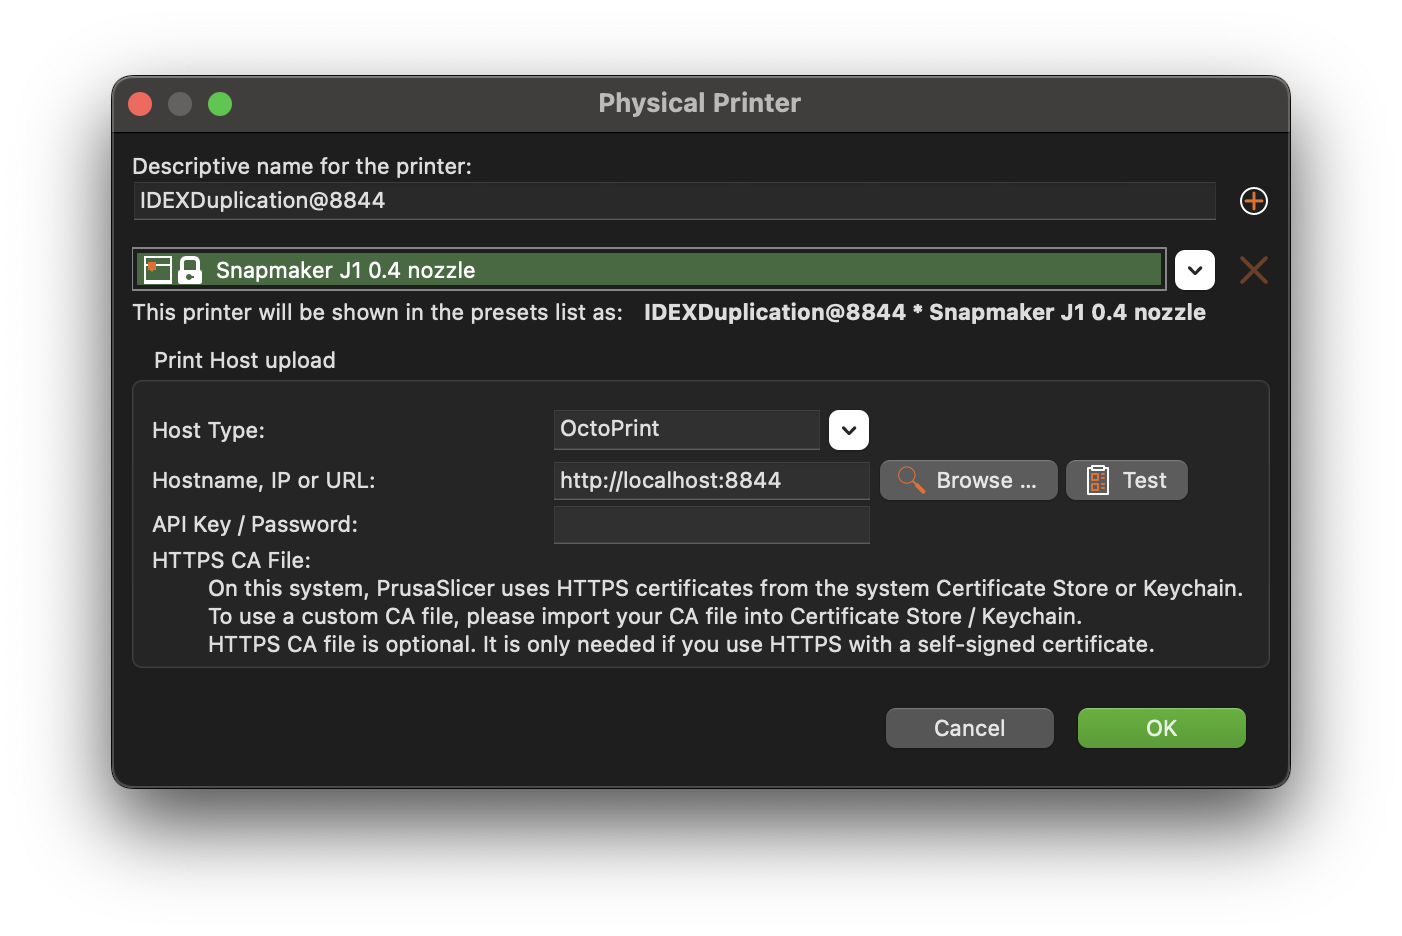
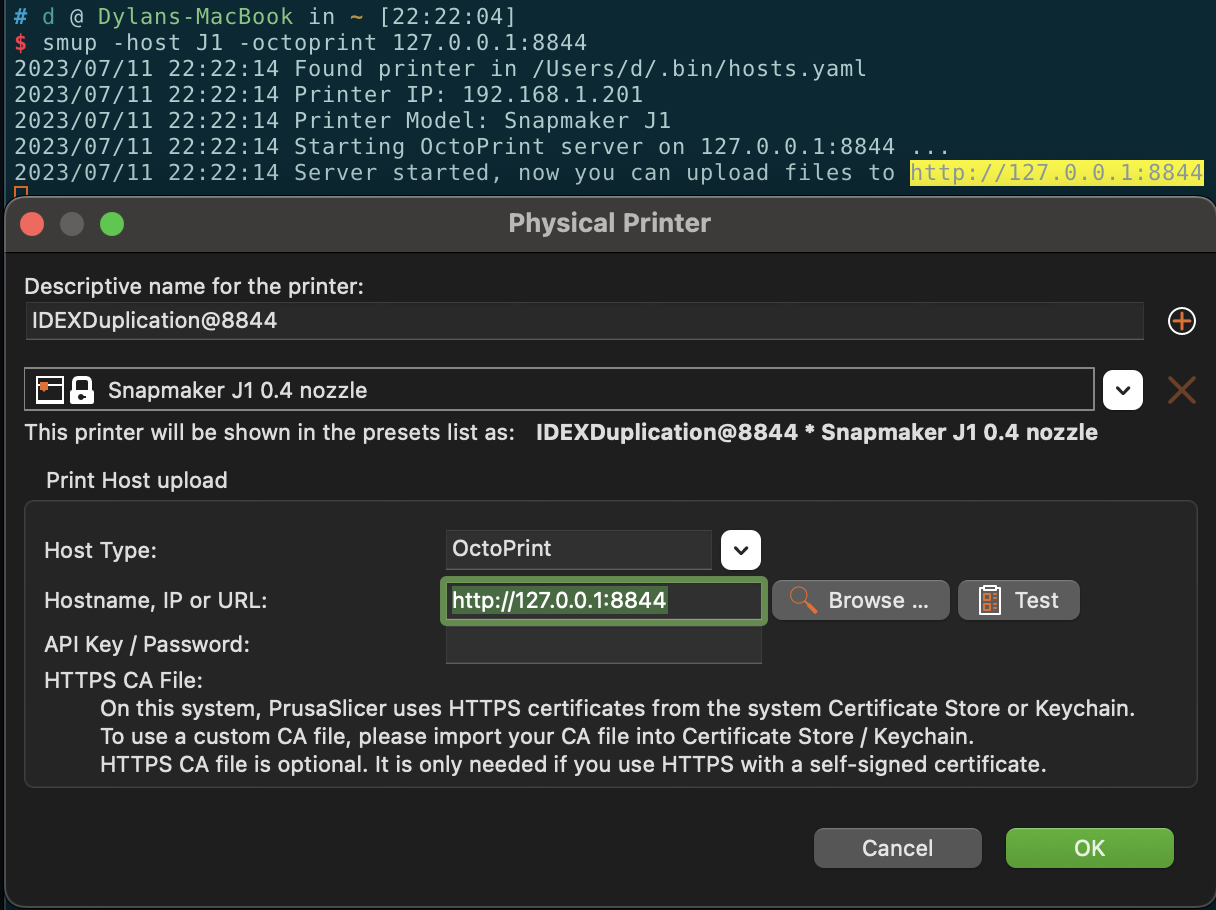
update README

diff --git a/README.md b/README.md
@@ -26,6 +26,8 @@ PrusaSlicer/vendor
 <br />
 <img width="701" src="./.assets/2.png">
 <br />
+
+- Setup [sm2uploader](https://github.com/macdylan/sm2uploader)
 <img width="701" src="./.assets/3.png">
 <br />
 <img width="701" src="./.assets/4.png">
